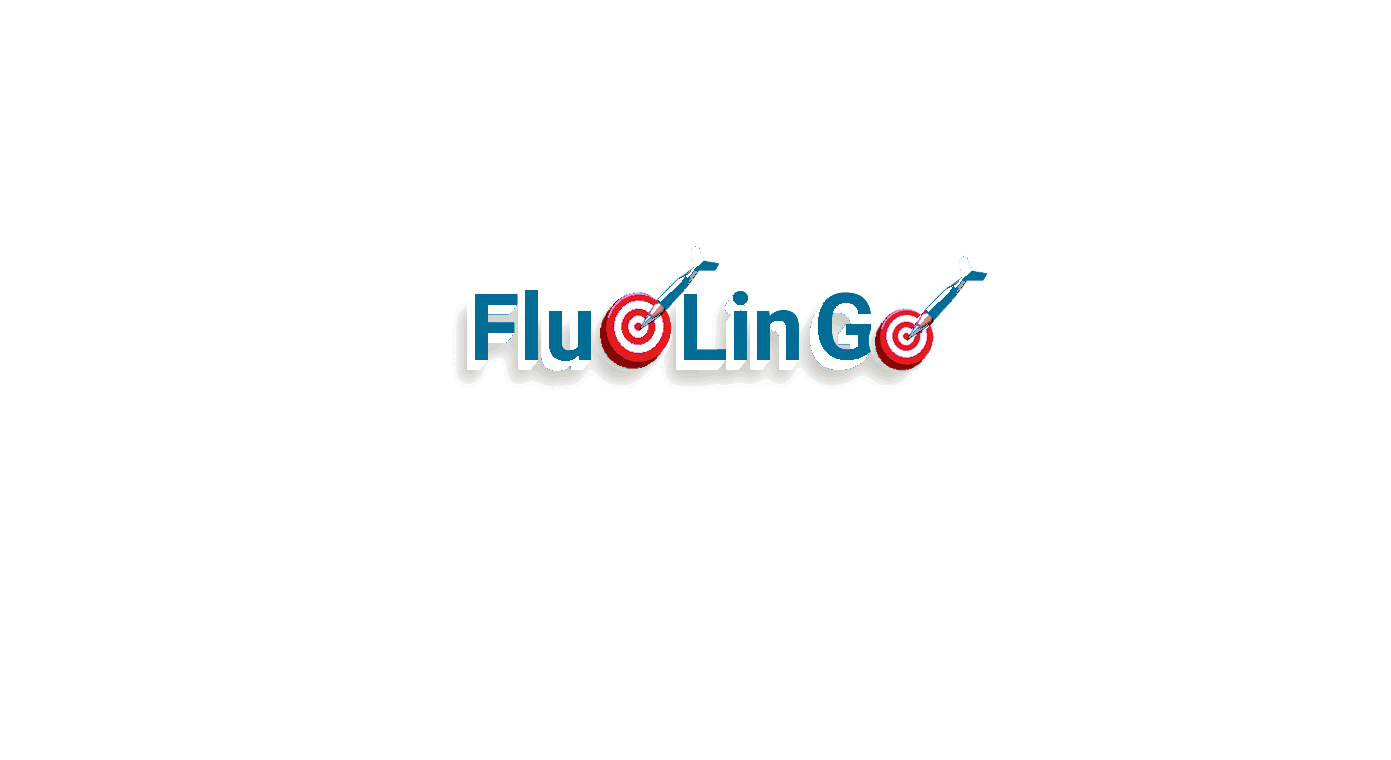
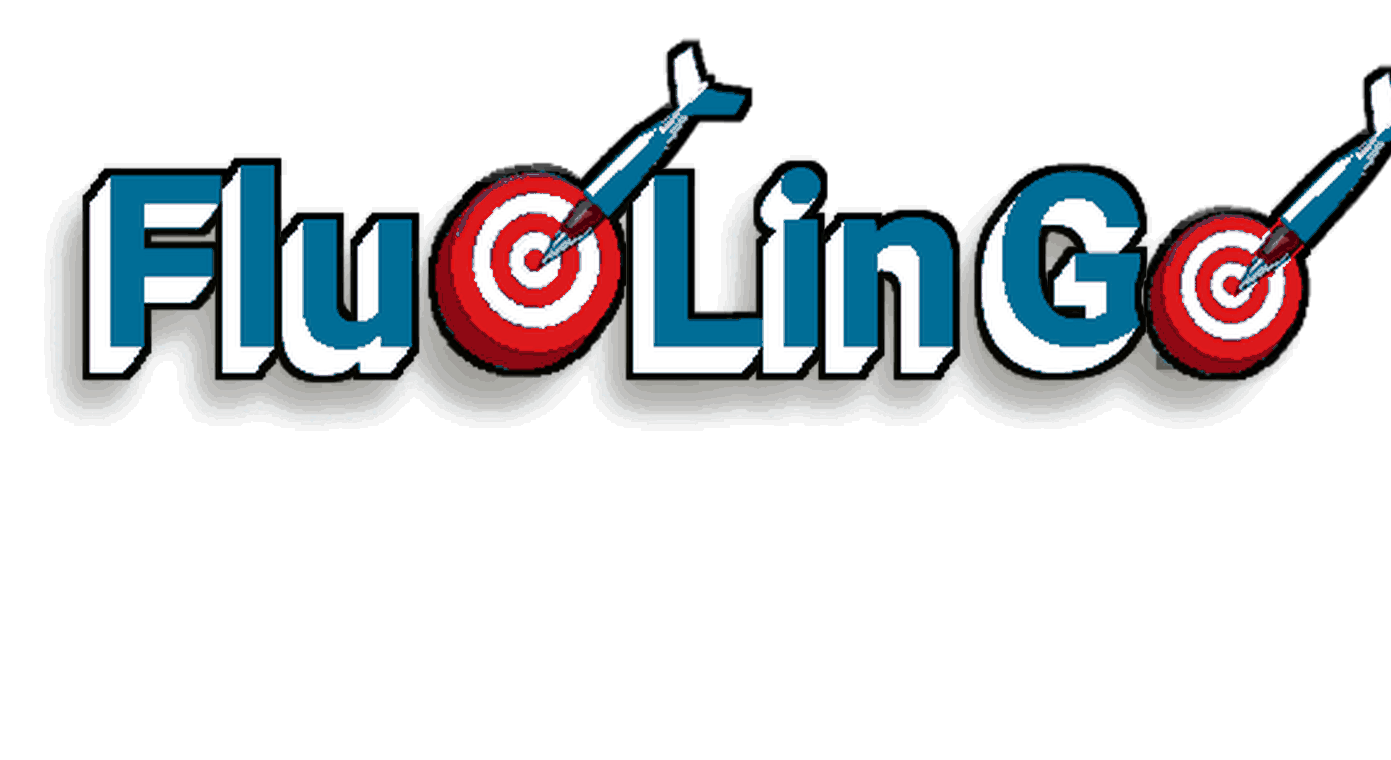
The letters stop at the skyline, and the name swells into the sky
Two asks from Dan, 2026-09-12, both on the welcome hero.

THE SKY IS A LID. *"the letters should fall behind the horizon, not onto the
trees"*; asked how far down still counts, *"basically anything that is sky is
horizon"*. The z-index from the last patch put them behind the trees but not
out of sight — measured at 1440x900, the deepest tumbled to y≈330 with the
skyline at 293, so « c y » and « a s » came to REST in the treeline instead of
passing behind it. Depth cannot fix that: a thing drawn low is still drawn.

So the artwork is clipped, and the clip height is read off the scene rather
than off a screenshot:

    SKYLINE_Y        0.29   the sky line, as a fraction of the rendered box
    WELCOME_SKY_LIFT 1.12   this page renders that box taller than the window
                    ------
                    32.48% of the window — and the pixels agree, 32.5% at
                    1440x900 and at 390x844

IT SWELLS AS IT COMES TOGETHER. *"As the FluOLiNGO comes together as one,
expand them to fill the sky much more"*, then *"once the word is expanded to
its final size, allow it to be outlined in black for prominence"*. A 2.6x
push-in ramps over the second and a half after the last letter lands, and the
outline fades in over its final third so it arrives WITH the size rather than
snapping on a frame later. The name goes from 28% of the screen's width to 72%.

BAKED INTO THE ASSET, NOT ANIMATED IN CSS. The WebP carries its own 12.61s
[…]

Changed region(s): [[0.0309, 0.0303, 1.0, 0.575]]

diff --git a/src/app/welcome/WelcomeBody.tsx b/src/app/welcome/WelcomeBody.tsx
@@ -57,7 +57,7 @@ import { defaultProgress, loadProgress, type Progress } from "@/lib/progress";
 import { nextSioId } from "@/lib/continuer";
 import { SIOS } from "@/content/sios";
 import { equippedAccent } from "@/lib/economy";
-import { WELCOME_SKY_LIFT } from "@/lib/map3d/projection";
+import { SKYLINE_Y, WELCOME_SKY_LIFT } from "@/lib/map3d/projection";
 import { HOME_HREF } from "@/lib/routes";
 
 /** The dark ground each line of the greeting sits on, from Dan's three mocks
@@ -109,6 +109,14 @@ const OUTLINE = {
    gif — which letter survives, which O takes a dart — and the gif itself is the
    hero now. Nothing derives from the words any more, so nothing here describes
    them. */
+
+/** WHERE THE SKY ENDS, read off the scene rather than off a screenshot.
+ *  `SKYLINE_Y` is a fraction of the rendered BOX and this page renders that box
+ *  `WELCOME_SKY_LIFT` times the window's height, so the two together are the
+ *  fraction of the WINDOW the sky occupies. `dvh` and not `vh` because a phone's
+ *  toolbar slides away and the horizon moves with it. */
+const SKY_H = `${(SKYLINE_Y * WELCOME_SKY_LIFT * 100).toFixed(2)}dvh`;
+
 export default function WelcomeBody() {
   const router = useRouter();
   // Progress lives in localStorage, which the static export must not read at
@@ -250,7 +258,38 @@ export default function WelcomeBody() {
 
           The course tag below is text and has to stay readable, so it is lifted
           back out on its own. */}
-      <div className="pointer-events-none absolute inset-x-0 top-[4%] z-[1] flex flex-col items-center px-6 text-center sm:top-[4%]">
+      {/* …AND THE SKY IS WHERE THEY STOP (Dan, 2026-09-12: *"the letters should
+          fall behind the horizon, not onto the trees"*, then, asked how far
+          down counts: *"basically anything that is sky is horizon"*).
+
+          The z-index above put the letters behind the trees but not out of
+          sight — measured at 1440x900, the deepest of them tumbled to y≈330
+          with the skyline at 293, so « c y » and « a s » came to rest sitting
+          IN the treeline rather than passing behind it. Depth alone cannot fix
+          that: a thing drawn low in the stack is still drawn.
+
+          So the artwork is CLIPPED to the sky. The height is not a number
+          picked off a screenshot — the scene exports both halves of it:
+
+            SKYLINE_Y (0.29)          the true sky line, a fraction of the box
+            WELCOME_SKY_LIFT (1.12)   this page renders the scene into a box
+                                      that much taller than the window
+
+          so the skyline lands at 0.29 x 1.12 = 32.48% of the window, which is
+          exactly where the pixels put it (32.5% at 1440x900 and at 390x844).
+          Read them, and the clip follows the horizon if either ever moves.
+
+          THE BOX CENTRES WHAT IS IN IT and the art is nudged down by 15.14% of
+          its own height, because the name does not sit in the middle of the
+          frame — measured on the finished asset it lands at 34.86% of it, the
+          rest being the space the letters fall through. Centring the ART would
+          hang the name a fifth of the sky too high; this centres the NAME.
+          A percentage on `translateY` resolves against the element's own
+          height, so one figure holds at every width. */}
+      <div
+        className="fluo-hero-sky pointer-events-none absolute inset-x-0 top-0 z-[1]"
+        style={{ height: SKY_H }}
+      >
         {/* THE GREETING, THEN WHAT THE NAME MEANS (Dan, 8 Sep: *"too many
             words: pls keep it short: 'Building your Fluency on Linguistic
             Goals' (make the relevant letters stand out)"*, then *"the Welcome
@@ -349,16 +388,27 @@ export default function WelcomeBody() {
             decoding="async"
           />
         </picture>
-        {named && course && (
+      </div>
+
+      {/* THE COURSE TAG IS NOT CLIPPED, so it rides the same sky box as a
+          sibling and sits on its bottom edge. It is text a learner has to
+          read; the clip above exists to swallow tumbling letters, and a line
+          naming your course is the one thing in this sky that must not be
+          swallowed. */}
+      {named && course && (
+        <div
+          className="pointer-events-none absolute inset-x-0 top-0 z-[2] flex items-end justify-center px-6 text-center"
+          style={{ height: SKY_H }}
+        >
           <p
             data-course-tag={course.key}
-            className="fluo-welcome-course relative z-[2] mt-1.5 inline-block px-3 py-0.5 font-bold leading-[1.15] text-white/90 sm:mt-2"
+            className="fluo-welcome-course inline-block px-3 py-0.5 font-bold leading-[1.15] text-white/90"
             style={{ fontFamily: "var(--font-fluohand-stack)", background: BAND, ...OUTLINE }}
           >
             {course.name} · {course.level}
           </p>
-        )}
-      </div>
+        </div>
+      )}
 
       {/* THE ONE ACTION — A COIN ON THE ROAD (Dan, 8 Sep, with his own mock
           of this page: *"this is closer to what i would like"*, showing a

diff --git a/src/app/globals.css b/src/app/globals.css
@@ -2093,15 +2093,42 @@ h3.cahier-display { font-size: var(--fs-h3); }
   image-rendering: auto;
   /* THE ART IS MOSTLY EMPTY, AND THE EMPTY PART IS THE POINT: the words sit
      across its middle and everything below them is the space the letters fall
-     through. Laid out honestly, that space is reserved as height and pushes the
-     words down onto the horizon — measured at 1280, they landed at y≈210 with
-     the skyline at 279, close enough to read as sitting on the treeline.
-     So both margins are pulled in: the top one lifts the words into the sky,
-     the bottom one stops the fall zone reserving ground it never draws on.
-     Percentages, because a margin-block percentage resolves against the
-     element's WIDTH — which is the one thing here that scales with the
-     viewport, so the crop holds at every size without a breakpoint. */
-  margin-block: -7% -24%;
+     through. That space used to be trimmed with negative margins, which stopped
+     it reserving layout but did nothing about what it PAINTED — the letters
+     went on tumbling down over the treeline. The sky box below clips instead,
+     which is the thing the margins were standing in for, so they are gone.
+
+     NUDGED DOWN BY ITS OWN NAME. The finished asset puts « FluOLinGo » at
+     34.86% of its height, not at the middle: the frame reserves the room the
+     letters fall through, and that room is all below the words. Centring the
+     picture would therefore hang the name 15% of the frame too high. A
+     `translateY` percentage resolves against the element's own HEIGHT, so this
+     one figure re-centres the NAME at every width without a breakpoint.
+
+     POSITIONED, NOT LAID OUT, and that was measured rather than assumed. The
+     first try centred it with `place-items: center` on the box; grid sizes its
+     implicit row to the ITEM, so a 647px picture in a 292px box makes a 647px
+     row that starts at 0 and centres the item inside ITSELF — the art landed at
+     y=98 instead of y=-80, a whole name too low. An out-of-flow item has no row
+     to be centred in. */
+  position: absolute;
+  left: 50%;
+  top: 50%;
+  transform: translate(-50%, -50%) translateY(15.14%);
+}
+
+/* THE SKY IS A LID (Dan, 2026-09-12: *"the letters should fall behind the
+   horizon, not onto the trees"*; asked how far down still counts, *"basically
+   anything that is sky is horizon"*).
+
+   Its height comes from the scene's own exported constants, computed in
+   WelcomeBody — see SKY_H there — so the clip tracks the horizon rather than a
+   number somebody read off a screenshot once. Everything here is what a lid
+   has to be and nothing more: it clips, and it centres what it holds. */
+.fluo-hero-sky {
+  overflow: hidden;
+  /* The containing block for the art's own centring — see .fluo-hero-art. */
+  position: absolute;
 }
 
 @keyframes fluo-edge-beat {
